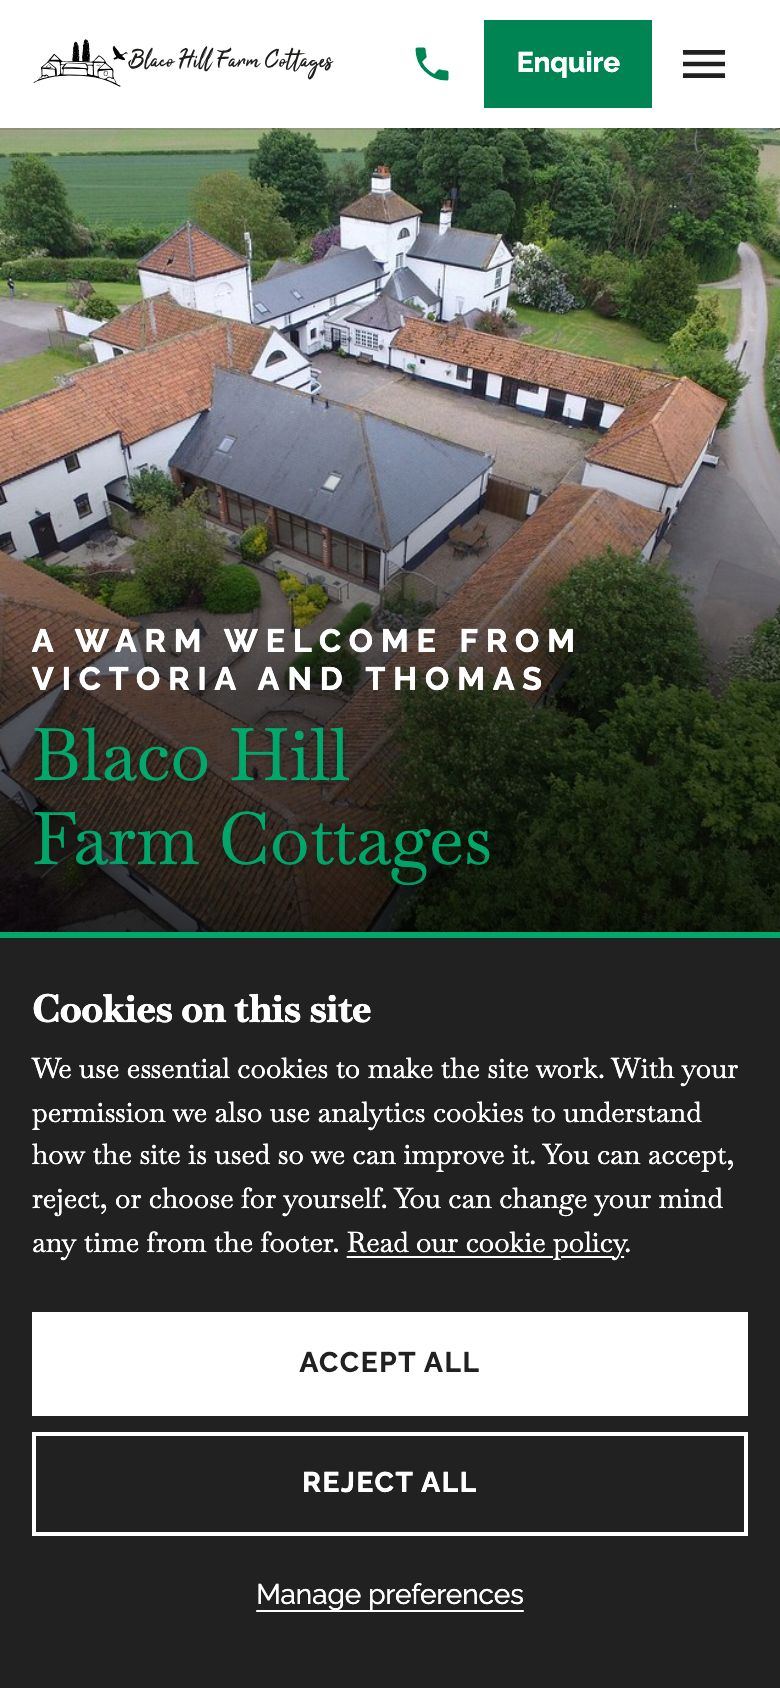
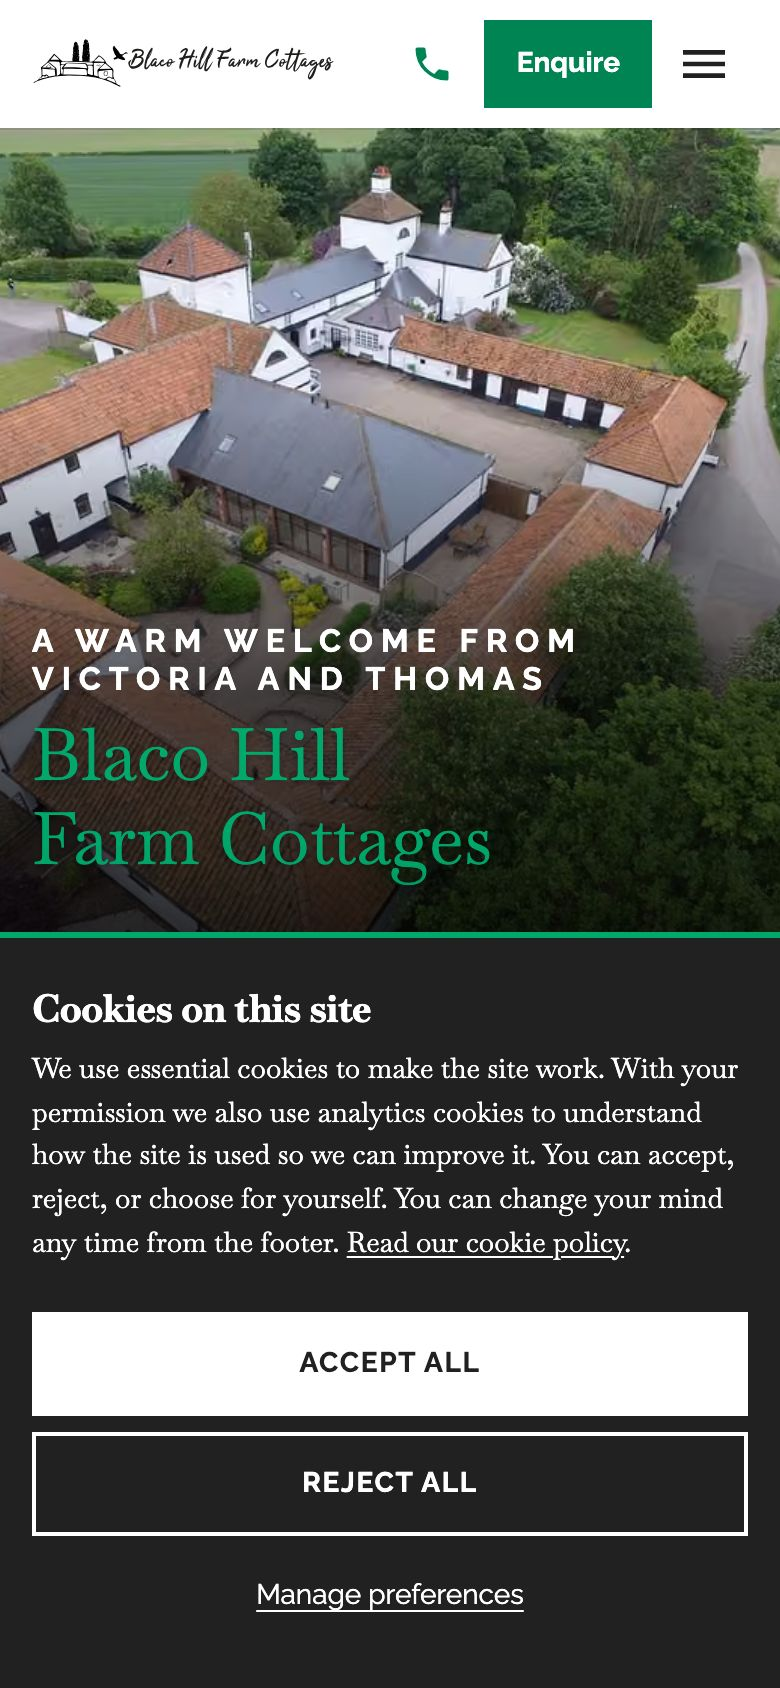
Home: full-width hero slides; taller parallax landscape strip
- Hero slides always cover the full width at every size, exempt from
  the 1.25x natural-size fallback (home page decision 1); heading,
  green line and dots unchanged; hero photos listed in CHECKPOINT-5.md
- Landscape strip 1.5x taller (clamp(18rem, 75vw, 42rem)) with a
  transform-based parallax (ParallaxStrip): an overscanned layer moved
  on scroll with requestAnimationFrame, only while on screen, and off
  with prefers-reduced-motion
- BackgroundImage moved to its own file for use by client components
- home-checks.mjs verifies both at 360, 390, 1280 and 2800px in
  Chromium and WebKit (iPhone Safari's engine): 34 of 34 pass
- Image fit re-measured; home screenshots retaken

diff --git a/app/components/blocks/ParallaxStrip.tsx b/app/components/blocks/ParallaxStrip.tsx
@@ -1,0 +1,76 @@
+'use client';
+
+import { useEffect, useRef } from 'react';
+import styles from './Blocks.module.css';
+import { BackgroundImage } from './BackgroundImage';
+import type { Background } from '../../lib/content';
+
+// Home page decision 2: the landscape strip moves more slowly than the page.
+// Transform based, so it works on iPhone Safari (which ignores
+// background-attachment: fixed). The image layer is taller than the strip and
+// is shifted by up to that overscan as the strip crosses the viewport. It only
+// runs while the strip is on screen, and not at all with reduced motion.
+export function ParallaxStrip({ background }: { background: Background | null }) {
+  const stripRef = useRef<HTMLDivElement>(null);
+  const layerRef = useRef<HTMLDivElement>(null);
+
+  useEffect(() => {
+    const strip = stripRef.current;
+    const layer = layerRef.current;
+    if (!strip || !layer) return;
+
+    const reduced = window.matchMedia('(prefers-reduced-motion: reduce)');
+    let frame = 0;
+    let visible = false;
+
+    const update = () => {
+      frame = 0;
+      const rect = strip.getBoundingClientRect();
+      const view = window.innerHeight;
+      // 0 as the strip enters at the bottom, 1 as it leaves at the top.
+      const progress = Math.min(1, Math.max(0, (view - rect.top) / (view + rect.height)));
+      // The layer overhangs the strip by --parallax-overscan top and bottom.
+      const overscan = (layer.offsetHeight - strip.offsetHeight) / 2;
+      layer.style.transform = `translate3d(0, ${((progress - 0.5) * 2 * overscan).toFixed(1)}px, 0)`;
+    };
+    const onScroll = () => {
+      if (visible && !frame) frame = requestAnimationFrame(update);
+    };
+
+    const observer = new IntersectionObserver(([entry]) => {
+      visible = entry.isIntersecting;
+      onScroll();
+    });
+
+    const start = () => {
+      observer.observe(strip);
+      window.addEventListener('scroll', onScroll, { passive: true });
+      window.addEventListener('resize', onScroll);
+      update();
+    };
+    const stop = () => {
+      observer.disconnect();
+      window.removeEventListener('scroll', onScroll);
+      window.removeEventListener('resize', onScroll);
+      if (frame) cancelAnimationFrame(frame);
+      frame = 0;
+      layer.style.transform = '';
+    };
+    const onPreference = () => (reduced.matches ? stop() : start());
+
+    onPreference();
+    reduced.addEventListener('change', onPreference);
+    return () => {
+      reduced.removeEventListener('change', onPreference);
+      stop();
+    };
+  }, []);
+
+  return (
+    <div ref={stripRef} className={styles.parallax} aria-hidden="true">
+      <div ref={layerRef} className={styles.parallaxLayer}>
+        <BackgroundImage background={background} />
+      </div>
+    </div>
+  );
+}

diff --git a/app/components/blocks/Sections.tsx b/app/components/blocks/Sections.tsx
@@ -7,9 +7,13 @@ import { Gallery } from './Gallery';
 import { HeroSlider } from './HeroSlider';
 import { EnquiryForm } from './EnquiryForm';
 import { PostList } from './PostList';
+import { BackgroundImage } from './BackgroundImage';
+import { ParallaxStrip } from './ParallaxStrip';
+
+export { BackgroundImage };
 import { MinusCircleIcon, PlusCircleIcon } from '../Icons';
 import { columnSizes, fitProps } from '../../lib/image-fit';
-import type { Background, BlurbModule, ButtonModule, Column, Module, Row, Section } from '../../lib/content';
+import type { BlurbModule, ButtonModule, Column, Module, Row, Section } from '../../lib/content';
 
 // Renders the sections of a ported page. Each section kind has its own
 // mobile-first layout; columns stack on phones and take their live widths
@@ -25,21 +29,6 @@ export function Sections({ sections, postsCategory }: { sections: Section[]; pos
   );
 }
 
-export function BackgroundImage({ background, priority }: { background: Background | null; priority?: boolean }) {
-  if (!background?.image) return null;
-  return (
-    <Image
-      className={styles.bgImage}
-      src={background.image.src}
-      alt=""
-      fill
-      sizes="100vw"
-      priority={priority}
-      {...fitProps('background', background.image.src)}
-    />
-  );
-}
-
 function SectionView({ section, postsCategory, priority }: { section: Section; postsCategory?: 'faq' | 'testimonial'; priority: boolean }) {
   if (section.kind === 'slider') {
     const slider = section.rows[0]?.columns[0]?.modules[0];
@@ -48,9 +37,7 @@ function SectionView({ section, postsCategory, priority }: { section: Section; p
 
   if (section.kind === 'parallax') {
     return (
-      <div className={styles.parallax} aria-hidden="true">
-        <BackgroundImage background={section.background} />
-      </div>
+      <ParallaxStrip background={section.background} />
     );
   }
 

diff --git a/app/components/blocks/Blocks.module.css b/app/components/blocks/Blocks.module.css
@@ -250,13 +250,31 @@
 
 /* ---------- parallax strip (home) ---------- */
 
+/* Home page decision 2: 1.5 times the previous clamp(12rem, 50vw, 28rem). The
+   image layer overhangs the strip by 15% of its height top and bottom, which
+   ParallaxStrip uses as the travel. With reduced motion the layer simply
+   fills the strip. */
 .parallax {
   position: relative;
-  height: clamp(12rem, 50vw, 28rem);
+  height: clamp(18rem, 75vw, 42rem);
+  overflow: hidden;
+}
+
+.parallaxLayer {
+  position: absolute;
+  inset: -15% 0;
+  will-change: transform;
 }
 
 .parallax .bgImage {
   z-index: 0;
+}
+
+@media (prefers-reduced-motion: reduce) {
+  .parallaxLayer {
+    inset: 0;
+    will-change: auto;
+  }
 }
 
 /* ---------- rows and columns ---------- */

diff --git a/app/components/blocks/BackgroundImage.tsx b/app/components/blocks/BackgroundImage.tsx
@@ -1,0 +1,21 @@
+import Image from 'next/image';
+import styles from './Blocks.module.css';
+import { fitProps } from '../../lib/image-fit';
+import type { Background } from '../../lib/content';
+
+// Decorative section background. Shared by server sections and the client
+// parallax strip, so it lives on its own without server-only imports.
+export function BackgroundImage({ background, priority }: { background: Background | null; priority?: boolean }) {
+  if (!background?.image) return null;
+  return (
+    <Image
+      className={styles.bgImage}
+      src={background.image.src}
+      alt=""
+      fill
+      sizes="100vw"
+      priority={priority}
+      {...fitProps('background', background.image.src)}
+    />
+  );
+}

diff --git a/app/lib/image-fit.ts b/app/lib/image-fit.ts
@@ -10,7 +10,12 @@ export type ImageRole = 'background' | 'slider' | 'gallery' | 'card' | 'figure' 
 
 type FitProps = { 'data-img': ImageRole; 'data-fit-from'?: number; unoptimized?: boolean };
 
+// Home page decision 1: hero slides always cover the full width, so they are
+// exempt from the natural-size fallback and may be enlarged beyond 1.25x.
+const EXEMPT: ImageRole[] = ['slider'];
+
 export function fitProps(role: ImageRole, src: string): FitProps {
+  if (EXEMPT.includes(role)) return { 'data-img': role };
   const from = (FIT as Record<string, number>)[`${role}|${src}`];
   return from === undefined ? { 'data-img': role } : { 'data-img': role, 'data-fit-from': from, unoptimized: true };
 }

diff --git a/agent/CHECKPOINT-5.md b/agent/CHECKPOINT-5.md
@@ -52,12 +52,12 @@ The rest hold until 1600px or wider (see the "from" column). If you would rather
 
 ## Images smaller than their display size at 2800px
 
-59 files, 62 uses (one file can appear in more than one role). Updated for the 1.25× limit: 27 uses are enlarged by no more than 1.25× and still fill their box, and 35 uses would need more, so they fill their box up to the width shown and appear at natural size above it. "Original needed" is the smallest size, at the same proportions, that fills the box at 2800px without any enlargement; supply at least this, ideally double for high-density screens. Sorted by how much enlargement they would need.
+59 files, 62 uses (one file can appear in more than one role). Updated for the 1.25× limit and the home page decisions: the 3 home hero slides always fill the full width and are enlarged as needed, so they most need larger originals; 25 other uses are enlarged by no more than 1.25× and fill their box; 34 would need more, so they fill their box up to the width shown and appear at natural size above it. "Original needed" is the smallest size, at the same proportions, that fills the box at 2800px (hero measured at a 1000px tall window) without any enlargement; supply at least this, ideally double for high-density screens. Sorted by how much enlargement they would need.
 
 | Image (under `public/media/`) | Original | Used as | Box at 2800px | Enlargement needed at 2800px | How it shows now | Original needed | Pages |
 |---|---|---|---|---|---|---|---|
 | `2020/10/wren-exterior.jpg` | 1000×700 | Section or hero background | 2800×933 | 2.8× | Fills up to 1152px, natural size above | 2800×1960 | `/our-cottages/wren` |
-| `2021/02/blaco-hill-farm.jpg` | 1024×768 | Home hero slide | 2800×800 | 2.73× | Fills up to 1280px, natural size above | 2796×2097 | `/` |
+| `2021/02/blaco-hill-farm.jpg` | 1024×768 | Home hero slide | 2800×800 | 2.73× | Always fills the hero, enlarged up to 2.73× (exempt, home page decision 1) | 2796×2097 | `/` |
 | `2020/08/blaco-hill-farm.jpg` | 1024×768 | Section or hero background | 2800×933 | 2.73× | Fills up to 1280px, natural size above | 2796×2097 | `/contact-us` |
 | `2025/05/Partridge-new-image.jpg` | 1512×915 | Section or hero background | 2800×933 | 1.85× | Fills up to 1760px, natural size above | 2798×1693 | `/our-cottages/partridge` |
 | `2020/09/badger.jpg` | 500×335 | Content image | 788×528 | 1.58× | Fills up to 2080px, natural size above | 790×530 | `/about/local-interests` |
@@ -71,7 +71,7 @@ The rest hold until 1600px or wider (see the "from" column). If you would rather
 | `2020/09/arrive.jpg` | 500×327 | Content image | 788×515 | 1.58× | Fills up to 2080px, natural size above | 790×517 | `/checking-in-checkout-process` |
 | `2020/09/leave.jpg` | 500×333 | Content image | 788×525 | 1.58× | Fills up to 2080px, natural size above | 790×527 | `/checking-in-checkout-process` |
 | `2020/09/literature.jpg` | 500×333 | Content image | 788×525 | 1.58× | Fills up to 2080px, natural size above | 790×527 | `/checking-in-checkout-process` |
-| `2020/09/landscape-e1600776204814.jpg` | 1795×1190 | Section or hero background | 2800×871 | 1.56× | Fills up to 2240px, natural size above | 2801×1857 | `/` |
+| `2020/09/landscape-e1600776204814.jpg` | 1795×1190 | Section or hero background | 2800×1699 | 1.56× | Fills up to 2240px, natural size above | 2801×1857 | `/` |
 | `2020/08/main-image-test.jpg` | 1800×885 | Section or hero background | 2800×933 | 1.56× | Fills up to 2240px, natural size above | 2808×1381 | `/about` |
 | `2020/09/TOWELS.jpg` | 1800×1200 | Section or hero background | 2800×933 | 1.56× | Fills up to 2240px, natural size above | 2808×1872 | `/about/faq` |
 | `2020/09/table-football.jpg` | 1800×1200 | Section or hero background | 2800×933 | 1.56× | Fills up to 2240px, natural size above | 2808×1872 | `/about/games-room` |
@@ -97,8 +97,8 @@ The rest hold until 1600px or wider (see the "from" column). If you would rather
 | `2025/05/IMG_0226.jpg` | 750×1000 | Gallery photo | 871×653 | 1.16× | Enlarged 1.16× (within the limit) | 870×1160 | `/our-cottages/partridge` |
 | `2025/05/IMG_0224.jpg` | 750×1000 | Gallery photo | 871×653 | 1.16× | Enlarged 1.16× (within the limit) | 870×1160 | `/our-cottages/partridge` |
 | `2020/10/skylark-bath.jpg` | 750×1000 | Gallery photo | 871×653 | 1.16× | Enlarged 1.16× (within the limit) | 870×1160 | `/our-cottages/skylark` |
-| `2021/02/IMG_4081-scaled.jpg` | 2560×1920 | Home hero slide | 2800×800 | 1.09× | Enlarged 1.09× (within the limit) | 2791×2093 | `/` |
-| `2021/02/IMG_8747-scaled.jpg` | 2560×1920 | Home hero slide | 2800×800 | 1.09× | Enlarged 1.09× (within the limit) | 2791×2093 | `/` |
+| `2021/02/IMG_4081-scaled.jpg` | 2560×1920 | Home hero slide | 2800×800 | 1.09× | Always fills the hero, enlarged up to 1.09× (exempt, home page decision 1) | 2791×2093 | `/` |
+| `2021/02/IMG_8747-scaled.jpg` | 2560×1920 | Home hero slide | 2800×800 | 1.09× | Always fills the hero, enlarged up to 1.09× (exempt, home page decision 1) | 2791×2093 | `/` |
 | `2020/08/family-celebration-or-a-garden-party-outside-in-th-PGN6JPD-scaled-1.jpg` | 2560×1707 | Section or hero background | 2800×1435 | 1.09× | Enlarged 1.09× (within the limit) | 2791×1861 | `/`, `/ask-us-a-question`, `/booking-request-form` and 11 more |
 | `2020/09/a-lion-cub-panthera-leo-lies-on-the-ground-and-loo-L9RVWV8-scaled-1.jpg` | 2560×1707 | Section or hero background | 2800×933 | 1.09× | Enlarged 1.09× (within the limit) | 2791×1861 | `/about/local-interests` |
 | `2020/09/Pheasant-kitchen.jpg` | 1000×628 | Gallery photo | 871×653 | 1.04× | Enlarged 1.04× (within the limit) | 1040×654 | `/our-cottages/grey-goose`, `/our-cottages/mallard`, `/our-cottages/woodcock` |

diff --git a/agent/DECISIONS.md b/agent/DECISIONS.md
@@ -81,3 +81,10 @@ Approved by Steve, 2026-09-21. This corrects two earlier instructions ("semibold
 2. **Weights** follow live. The amenity and Near by labels are Raleway bold.
 3. **Counter numbers** stay green (live's light grey fails contrast).
 4. **Hero and contact icons** stay green.
+
+## Home page
+
+Approved by Steve, 2026-09-21.
+
+1. **Hero slides fill the full width** of the screen at every width, with no side bars or letterboxing. The hero may be made taller if needed. This overrides the 1.25× enlargement limit (Checkpoint 5 decision 1) for the hero slides only, and the hero photos are listed in `agent/CHECKPOINT-5.md` as needing larger originals. The heading, the large green line and the dots stay where they are over the photo.
+2. **Landscape strip** further down the home page is 1.5 times its previous height and has a parallax effect. It is transform based (not `background-attachment: fixed`, which iPhone Safari ignores) and is switched off for visitors who have reduced motion set.
